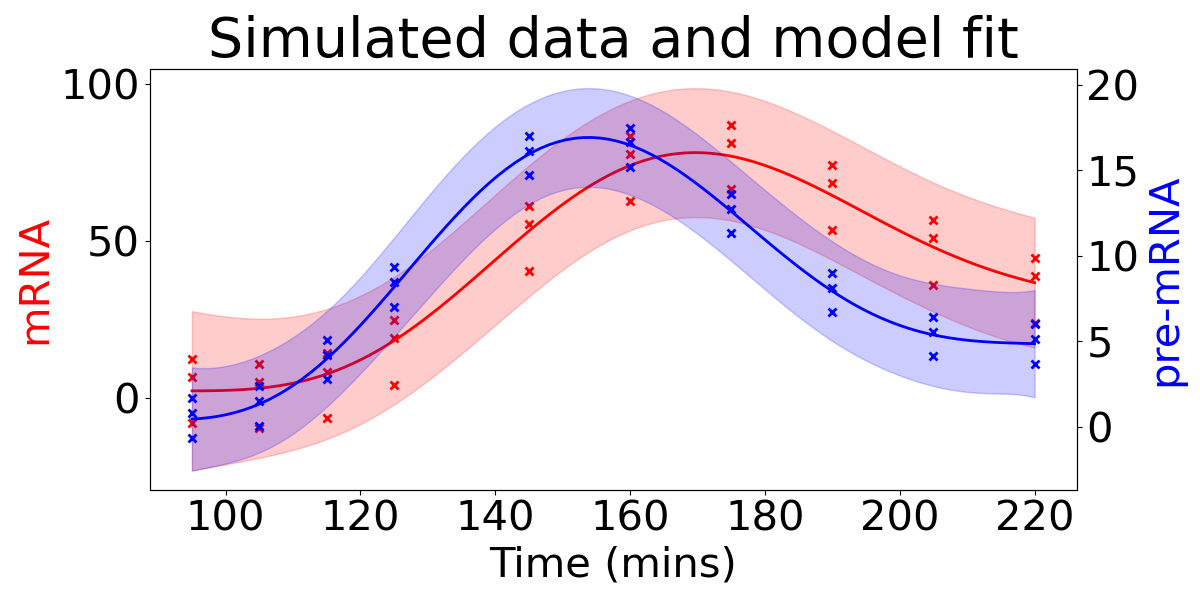
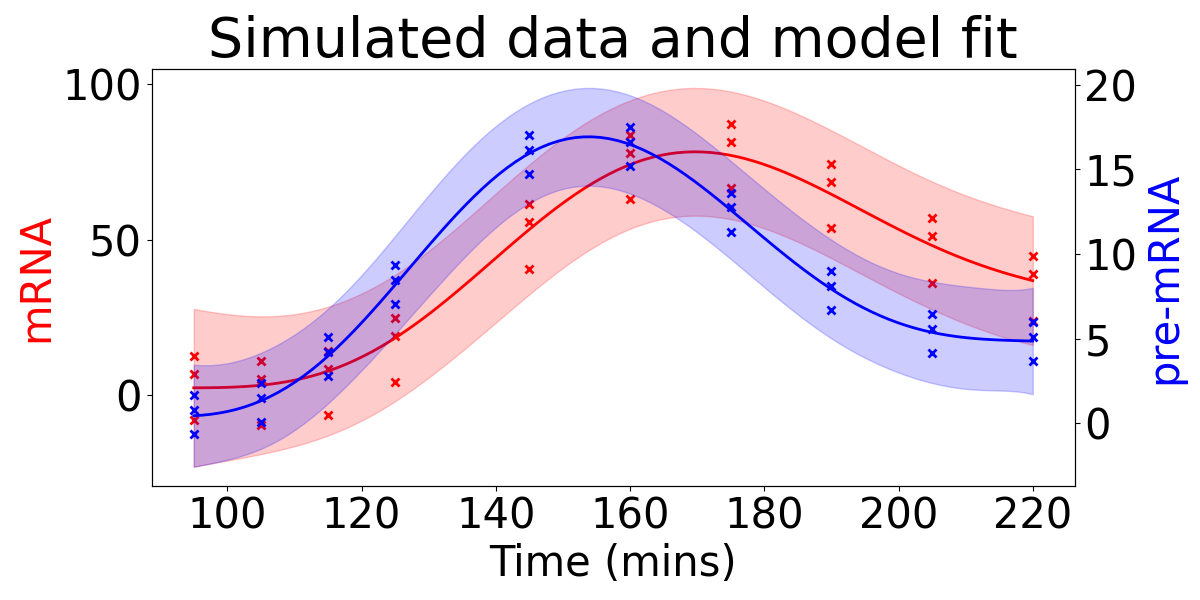
a few added comments for simulation examples

diff --git a/utils/utils_simulations.py b/utils/utils_simulations.py
@@ -78,19 +78,23 @@ def load_single_gene(gene_id, tr_id) -> Tuple[Tuple[tf.Tensor, tf.Tensor], Tuple
 
 
 def plot_trcd_predict(cluster, trcd: tf.Module, tr_id, gene_id, observations: Observations, var_m_noise, var_p_noise, num_predict: int = 100):
-
+    '''
+    Plot predictions for trcd model;
+    Resulted plots include uncertainty to f and y.
+    '''
     tp_obs, ym, yp = [np.array(o) for o in observations]
 
     xx = np.linspace(np.min(tp_obs), np.max(tp_obs), num_predict).reshape(num_predict, 1)
     xx_full = np.concatenate((xx, xx)).reshape(-1, 1)
+    ## TO DO: See if there is a more neat way for predicting through using trcd.model.predict_y() function
     #
     #gpflow.config.set_default_jitter(0.5)
-    try:
-        #print('predicted y')
-        mean, var = trcd.model.predict_y(xx_full)
-    except:
-        print('predicted y failed, predicted f')
-        mean, var = trcd.model.predict_f(xx_full)
+    #try:
+    #    #print('predicted y')
+    #mean, var = trcd.model.predict_y(xx_full)
+    #except:
+    #    print('predicted y failed, predicted f')
+    mean, var = trcd.model.predict_f(xx_full)
 
     mean1 = mean[0:num_predict]
     mean2 = mean[num_predict:2 * num_predict]

diff --git a/simulations/simulated_examples.py b/simulations/simulated_examples.py
@@ -32,7 +32,7 @@ from utils.utils_simulations import (load_single_gene, plot_trcd_predict, genera
 from utils.utils_mcmc import (run_mcmc, run_mala, analyse_samples, experiment_print, reset_parameters, dfloat)
 
 '''
-For running MCMC set run_mcmc = True.
+For running MCMC set run_mcmc = True. Running MCMC might take a while.
 '''
 
 run_mcmc =  False
@@ -84,7 +84,6 @@ dict_parameters = select_parameters(dict_parameters,
 #trcd.model.likelihood.variance_m.assign(var_m)
 #trcd.model.likelihood.variance_p.assign(var_p)
 
-
 '''
 Optimize the model
 '''
@@ -120,7 +119,6 @@ if(run_mcmc == True):
 
     print(f"log posterior density at optimum: {trcd.model.log_posterior_density()}")
 
-    #print(step_size_mala)
     for j in range(step_size_mala.shape[0]):
         step_size = step_size_mala[j]
 
@@ -140,4 +138,4 @@ if(run_mcmc == True):
             reset_parameters(parameters, parameters_estimates)
             experiment_print(j, f"MCMC finished")
         except:
-            print('Experiment error')
+            print('Experiment error, likely step size was not optimal')
